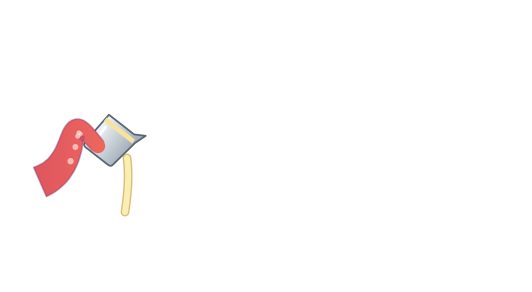
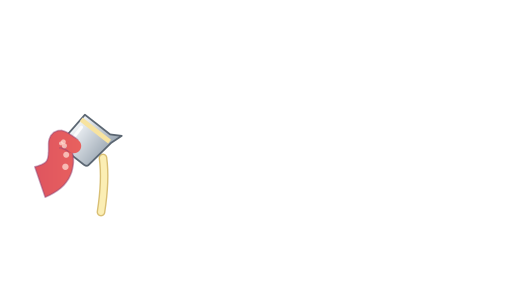
fix(octopilot): polish the kitchen mod after review
A transient mood shows while paused and the flames keep a pilot simmer; the
pick lands on any hole of any pan and the arm stays under the shelf's boats;
no speech scan while folded, no wake re-arm on a fixture's frozen clock.

Changed region(s): [[0.0902, 0.3699, 0.2707, 0.7397], [0.0602, 0.5548, 0.0902, 0.6164], [0.0602, 0.6473, 0.0902, 0.6781]]

diff --git a/herdr-app/mods/octopilot-kitchen/main.js b/herdr-app/mods/octopilot-kitchen/main.js
@@ -1,7 +1,6 @@
 // The takoyaki kitchen as a floating block: the octopus chef behind the pan, one ball per
 // tracked item, flames, the shelf of served boats, and a speech bubble with the orchestrator's
-// last message and the kitchen log. Props: { dir?, state_dir?, folded?, fixture?, fixture_speech?, fixture_now? }.
-// For the full-text dialog: { full: true, text, status, overlay }.
+// last message and the kitchen log. Props: see README.md.
 
 import { View, div, image, svg } from "gpui-kit";
 import { v_flex, h_flex, TextView } from "gpui-base";
@@ -95,7 +94,8 @@ export default class Kitchen extends View {
   poll(cx) {
     cx.spawn(async (cx) => {
       for (;;) {
-        await Promise.all([this.loadView(), this.loadSpeech()]);
+        // Folded, the bubble is gone: no need to ask for the speech.
+        await Promise.all([this.loadView(), this.folded ? null : this.loadSpeech()]);
         this.refresh(cx);
         await cx.sleep(this.shown() ? FAST_MS : SLOW_MS);
       }
@@ -179,6 +179,8 @@ export default class Kitchen extends View {
     const sig = JSON.stringify([this.model, s?.seq, s?.status, s?.text, s?.terminal, this.error]);
     if (sig !== this.sig) cx.notify();
     this.sig = sig;
+    // A fixture's clock stands still, so nothing on show ever ends.
+    if (props()?.fixture) return;
     const wake = ++this.wake;
     const wait = this.model.until == null ? 0 : this.model.until - this.now();
     if (wait <= 0) return;
@@ -208,6 +210,11 @@ export default class Kitchen extends View {
     this.folded = !this.folded;
     try { localStorage.setItem(FOLD_KEY, this.folded ? "1" : "0"); } catch (_e) { /* not kept, that's all */ }
     cx.notify();
+    if (this.folded) return;
+    cx.spawn(async (cx) => {
+      await this.loadSpeech();
+      this.refresh(cx);
+    });
   }
 
   chef(m) {
@@ -223,7 +230,8 @@ export default class Kitchen extends View {
   }
 
   arm(m) {
-    const [x, y, w, h] = BOX.arm;
+    const [left, y, w, h] = BOX.arm;
+    const x = left + m.armShift;
     const working = m.arm.startsWith("arm-point") || m.arm.startsWith("arm-pour");
     const inner = image(art(m.arm)).w(w).h(h);
     // The pick dips into the ball while he works it.
@@ -323,7 +331,8 @@ export default class Kitchen extends View {
         ? div().absolute().left(0).w(SCENE.w).top(SCENE.h / 2 - 12).flex().justify_center().child(this.chip("kitchen offline"))
         : null,
       // Click the chef to look into the orchestrator's terminal.
-      layer([BOX.chef[0] + 14, BOX.chef[1] + 8, 112, 124]).id("chef").cursor_pointer().on_click(() => this.peek()),
+      layer([BOX.chef[0] + 14, BOX.chef[1] + 8, 112, 124]).id("chef").cursor_pointer()
+        .on_mouse_down("left", (_e, cx) => cx.stop_propagation()).on_click(() => this.peek()),
       div().id("fold").absolute().left(SCENE.w - 26).top(SCENE.h - 22).w(20).h(16).rounded(8).bg(INK.chip)
         .flex().items_center().justify_center().text_size(11).text_color(INK.text).cursor_pointer()
         .hover((s) => s.bg(INK.hover))
@@ -345,7 +354,8 @@ export default class Kitchen extends View {
     if (this.error) return muted(`Can't reach the orchestrator: ${this.error}`);
     if (!s) return muted("Waiting for the orchestrator…");
     if (!s.text) return muted(s.status === "offline" ? "The orchestrator is offline." : "The orchestrator hasn't said anything yet.");
-    return div().id("speech").text_size(13).text_color(t.foreground).cursor_pointer().on_click(() => this.openFull())
+    return div().id("speech").text_size(13).text_color(t.foreground).cursor_pointer()
+      .on_mouse_down("left", (_e, cx) => cx.stop_propagation()).on_click(() => this.openFull())
       .child(TextView.markdown("octopilot-speech", clip(s.text)).raw_html(false));
   }
 

diff --git a/herdr-app/mods/octopilot-kitchen/kitchen.js b/herdr-app/mods/octopilot-kitchen/kitchen.js
@@ -71,13 +71,19 @@ export function focusIndex(balls, walking, walk = 0) {
   return flagged < 0 ? 0 : flagged;
 }
 
+// The drawn arm pose nearest to hole `focus`, and how far (px) to slide it to land on the hole.
+export function armReach(focus, holes) {
+  const { x } = holeAt(focus, holes);
+  const pitch = PAN.w / ARM_POSES;
+  const pose = clamp(Math.round((x - PAN.x) / pitch - 0.5), 0, ARM_POSES - 1);
+  return { pose, shift: x - (PAN.x + pitch * (pose + 0.5)) };
+}
+
 // The arm piece for a mood: the pick (or the batter jug) over the focused hole, or a pose of its own.
 export function armPiece(mood, focus, holes) {
   const fixed = focus < 0 ? ARM[mood] ?? "rest" : ARM[mood];
   if (fixed) return `arm-${fixed}-${FLUSHED.includes(mood) && fixed !== "cheer" ? "f" : "w"}`;
-  const { x } = holeAt(focus, holes);
-  const pose = clamp(Math.round(((x - PAN.x) / PAN.w) * ARM_POSES - 0.5), 0, ARM_POSES - 1);
-  return `arm-${mood === "pour" ? "pour" : "point"}-${pose}`;
+  return `arm-${mood === "pour" ? "pour" : "point"}-${armReach(focus, holes).pose}`;
 }
 
 export function newest(kitchen) {
@@ -135,14 +141,15 @@ export function derive(view, nowMs, walk = 0) {
   // Without `pan` (an older backend) the newest event stands in for the chef.
   const chef = pan?.chef ?? (last ? { mood: last.mood, since: last.at, ms: last.ms, resting: "idle" } : null);
 
+  // An event's mood shows even while paused; `pan` already rests in sleep then.
   let mood = chefMood(chef, nowMs);
-  if (paused) mood = "sleep";
+  if (paused && !pan && mood === "idle") mood = "sleep";
   if (offline) mood = "doze";
   const busy = pan?.busy === true && !paused && !offline;
   const focus = focusIndex(balls, busy && mood === "busy", walk);
 
   let burst = null;
-  let until = offline || paused ? null : moodEnd(chef, nowMs);
+  let until = offline ? null : moodEnd(chef, nowMs);
   if (!offline && last && BURSTS.includes(last.burst)) {
     const end = last.at * 1000 + burstMs(last);
     if (end > nowMs) {
@@ -161,7 +168,9 @@ export function derive(view, nowMs, walk = 0) {
     flushed: FLUSHED.includes(mood),
     blinks: BLINKS.includes(mood) && !offline,
     arm: armPiece(mood, focus, holes),
-    flames: offline || paused ? "none" : busy ? "big" : "pilot",
+    armShift: armPiece(mood, focus, holes).match(/point|pour/) ? armReach(focus, holes).shift : 0,
+    // Never out while the kitchen is open: a pilot simmer, roaring while the orchestrator works.
+    flames: offline ? "none" : busy ? "big" : "pilot",
     balls: balls.map((b, i) => ({ sprite: ballSprite(b), state: b.state, label: b.label ?? b.key ?? "", focus: i === focus })),
     focus,
     boats: shelf.length,

diff --git a/herdr-app/mods/octopilot-kitchen/atlas.js b/herdr-app/mods/octopilot-kitchen/atlas.js
@@ -2,13 +2,13 @@
 export const SCENE = { w: 360, h: 220 };
 export const PAN = { x: 134, w: 216, ballY: 138 };
 export const SPRITE = { w: 40, h: 48, cx: 20, cy: 26 };
-export const SHELF = { x: 184, rows: [98, 58], pitch: 42, perRow: 4, boat: { w: 38, h: 26, dy: -25 } };
-export const ARM_POSES = 6;
+export const SHELF = { x: 184, rows: [92, 54], pitch: 42, perRow: 4, boat: { w: 38, h: 26, dy: -25 } };
+export const ARM_POSES = 18;
 export const COOK_STEPS = 5;
 // [left, top, width, height] in scene px.
 export const BOX = {
   bg: [0, 0, 360, 220],
-  shelf: [176, 56, 182, 60],
+  shelf: [176, 52, 182, 58],
   counter: [0, 146, 360, 74],
   pan: [120, 124, 244, 76],
   flame: [126, 160, 232, 40],

diff --git a/herdr-app/mods/octopilot-kitchen/art/make.py b/herdr-app/mods/octopilot-kitchen/art/make.py
@@ -2,8 +2,8 @@
 """Draws the takoyaki kitchen as layered SVG pieces and renders them to PNG at 2x.
 
 `python3 make.py` rewrites art/svg/*.svg, art/png/*.png and ../atlas.js (where each
-piece sits in the scene, for main.js). `--preview [mood]` also writes
-art/svg/preview.png, the whole scene composed, to judge the art without the app.
+piece sits in the scene, for main.js). `--preview [mood...]` instead writes
+art/svg/preview-<mood>.png, the whole scene composed, to judge the art without the app.
 Everything is drawn in scene coordinates (360x220); a piece's file is a crop of it.
 """
 
@@ -22,9 +22,10 @@ PAN_X, PAN_W, PAN_TOP, PAN_FACE, PAN_RIM = 134, 216, 126, 34, 8
 BALL_Y, BALL_R = 138, 13
 # A ball sprite's canvas, and the ball's centre in it (room above for the flag).
 SPRITE_W, SPRITE_H, SPRITE_CX, SPRITE_CY = 40, 48, 20, 26
-ARM_POSES = 6
+# Arm poses are closer together than the holes, so the pick lands near any hole of any pan.
+ARM_POSES = 18
 COUNTER_Y = 152
-SHELF_X, SHELF_ROWS, SHELF_PITCH, SHELF_PER_ROW = 184, (58, 98), 42, 4
+SHELF_X, SHELF_ROWS, SHELF_PITCH, SHELF_PER_ROW = 184, (54, 92), 42, 4
 BOAT_W, BOAT_H = 38, 24
 
 WARM = dict(hi="#ffcdb8", base="#f4705c", mid="#dc5160", shade="#8a3a70", ink="#3b2145",
@@ -717,6 +718,11 @@ def pose_x(k):
     return PAN_X + PAN_W * (k + .5) / ARM_POSES
 
 
+def reach(hx):
+    """How far along the pan the arm stretches, 0 at its near end to 5 at the far one."""
+    return (hx - PAN_X) / PAN_W * 6 - .5
+
+
 def pick(x0, y0, x1, y1):
     """The takoyaki pick: a wooden handle from (x0, y0) and a steel needle to (x1, y1)."""
     mx, my = x0 + (x1 - x0) * .45, y0 + (y1 - y0) * .45
@@ -742,16 +748,19 @@ def arm(kind, k=0, tag="w"):
     suck = (10, 15, 20, 25, 30)
     if kind == "point":
         hx = pose_x(k)
+        k = reach(hx)
         tip = (hx + 3, 108)
-        c1 = (s[0] + 26 + k * 6, s[1] - 8 - k * 7)
-        c2 = (tip[0] - 22 - k * 6, tip[1] - 26 - k * 3)
+        # A low arc, to stay under the shelf's boats.
+        c1 = (s[0] + 26 + k * 6, s[1] - 6 - k * 2)
+        c2 = (tip[0] - 22 - k * 6, tip[1] - 14 - k)
         body = tentacle(s, c1, c2, tip, 8, 3.4, fill, p, suck)
         return pick(hx + 5.5, 99, hx + .5, BALL_Y - BALL_R + 3) + body_curl(tip, p, fill) + body
     if kind == "pour":
         hx = pose_x(k)
+        k = reach(hx)
         tip = (hx - 13, 103)
-        c1 = (s[0] + 24 + k * 6, s[1] - 10 - k * 7)
-        c2 = (tip[0] - 20 - k * 6, tip[1] - 24 - k * 3)
+        c1 = (s[0] + 24 + k * 6, s[1] - 8 - k * 2)
+        c2 = (tip[0] - 20 - k * 6, tip[1] - 12 - k)
         stream = (f'<path d="M{f1(hx + 1.5)} 109 Q{f1(hx + 3)} 120 {f1(hx + .5)} {BALL_Y - 2}" fill="none" stroke="#d9bf74" stroke-width="4.4" stroke-linecap="round"/>'
                   f'<path d="M{f1(hx + 1.5)} 109 Q{f1(hx + 3)} 120 {f1(hx + .5)} {BALL_Y - 2}" fill="none" stroke="#fbeeb4" stroke-width="3" stroke-linecap="round"/>')
         return stream + jug(hx - 6, 100) + tentacle(s, c1, c2, tip, 8, 3.6, fill, p, suck)
@@ -873,7 +882,7 @@ def preview(all_pieces, mood):
         if s:
             parts.append(ball(s, i))
     arm_name = {"sleep": "arm-down-w", "doze": "arm-down-w", "sad": "arm-down-f", "happy": "arm-cheer-w", "serve": "arm-cheer-w",
-                "surprised": "arm-rest-w", "idle": "arm-rest-w", "worried": "arm-rest-f", "pour": "arm-pour-4"}.get(mood, "arm-point-2")
+                "surprised": "arm-rest-w", "idle": "arm-rest-w", "worried": "arm-rest-f", "pour": "arm-pour-13"}.get(mood, "arm-point-16")
     parts.append(at(arm_name))
     parts.append(at("steam", PAN_X + PAN_W * 1.5 / 6 - 12, 92))
     parts.append(at("smoke", PAN_X + PAN_W * (5.5 if states[5] else 4.5) / 6 - 20, 84))

diff --git a/herdr-app/mods/octopilot-kitchen/README.md b/herdr-app/mods/octopilot-kitchen/README.md
@@ -29,7 +29,8 @@ Props, all optional: `dir` (the octopilot code, default `~/.dotfiles/ai/octopilo
   balls, shelf, the chef's mood, `busy`, `paused`), `kitchen` (the log, and the newest
   event's burst) and `header`. A `generated_at` older than 15 s is an offline kitchen:
   dimmed, flames out, the chef dozing.
-- `$DIR/scan.sh speech --json` for the bubble's message, status and terminal, run through
+- `$DIR/scan.sh speech --json` for the bubble's message, status and terminal (not while
+  folded), run through
   `env` with `OCTOPILOT_BACKEND=hc`, `OCTOPILOT_DIR` and, when a state folder was set,
   `OCTOPILOT_STATE_DIR`.
 
@@ -43,8 +44,9 @@ Props, all optional: `dir` (the octopilot code, default `~/.dotfiles/ai/octopilo
 | `stalled` | cold and frosted, no steam |
 
 The focused ball has a ring and the chef's pick over it (the batter jug while he pours);
-while the orchestrator is busy the pick walks along the pan. Flames roar while `busy`,
-drop to a pilot light when idle, and go out when paused. Chef moods: `idle`, `busy`,
+while the orchestrator is busy the pick walks along the pan. Flames roar while `busy`
+and drop to a pilot light otherwise, paused too; they only go out when offline. Paused,
+the chef sleeps, but an event's mood still shows for its time. Chef moods: `idle`, `busy`,
 `flip`, `pour`, `happy`, `serve`, `worried`, `sad`, `surprised`, `sleep`, `doze`.
 
 ## The art
